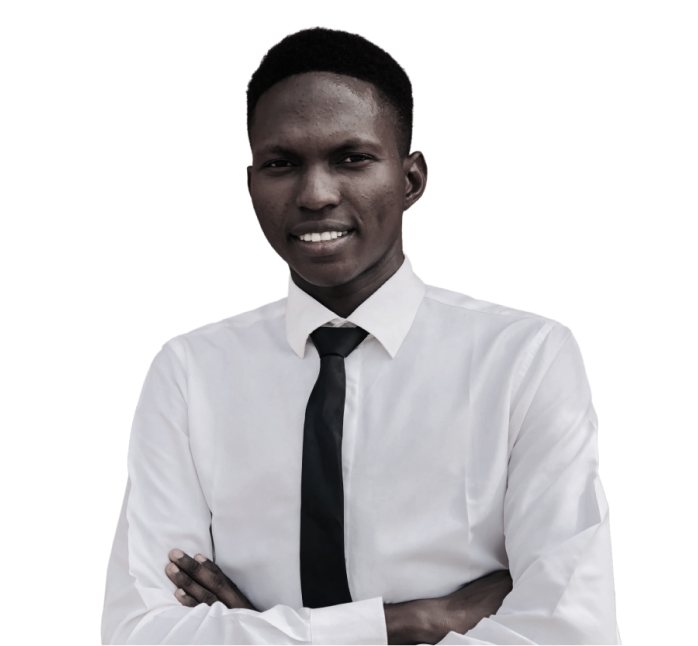
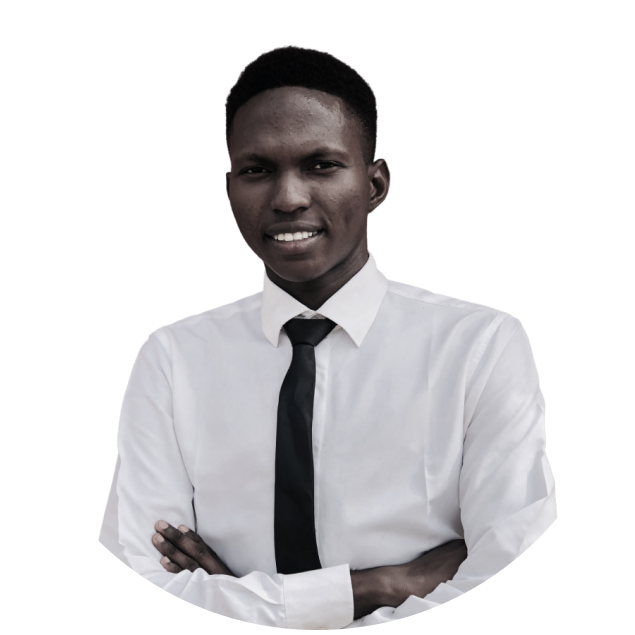
resize image

diff --git a/style.css b/style.css
@@ -16,15 +16,11 @@ body {
     align-items: center;
     justify-content: center;
 }
-
+.container .row-1 {
+  margin: 0px 30px;
+}
 .container .row-1 .row-2 img {
   object-fit: cover;
 }
 
 /* On screens that are 600px or less, set the background color to olive */
-@media screen and (max-width: 600px) {
-    .container{
-      background-color: olive;
-    }
-  }
-    
